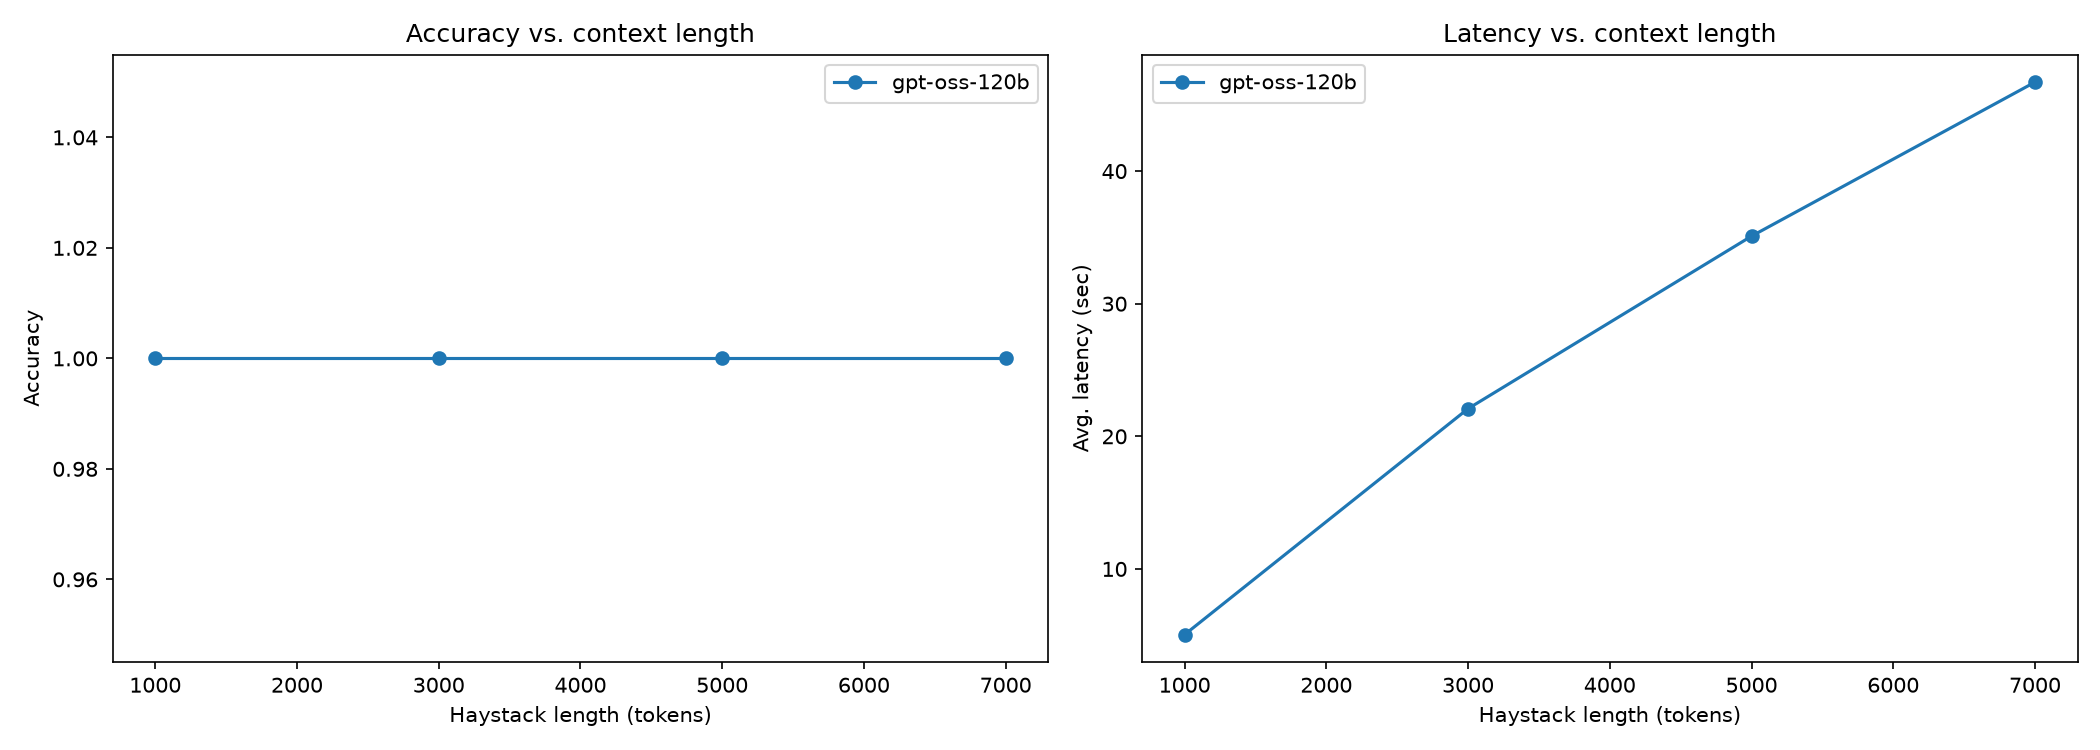
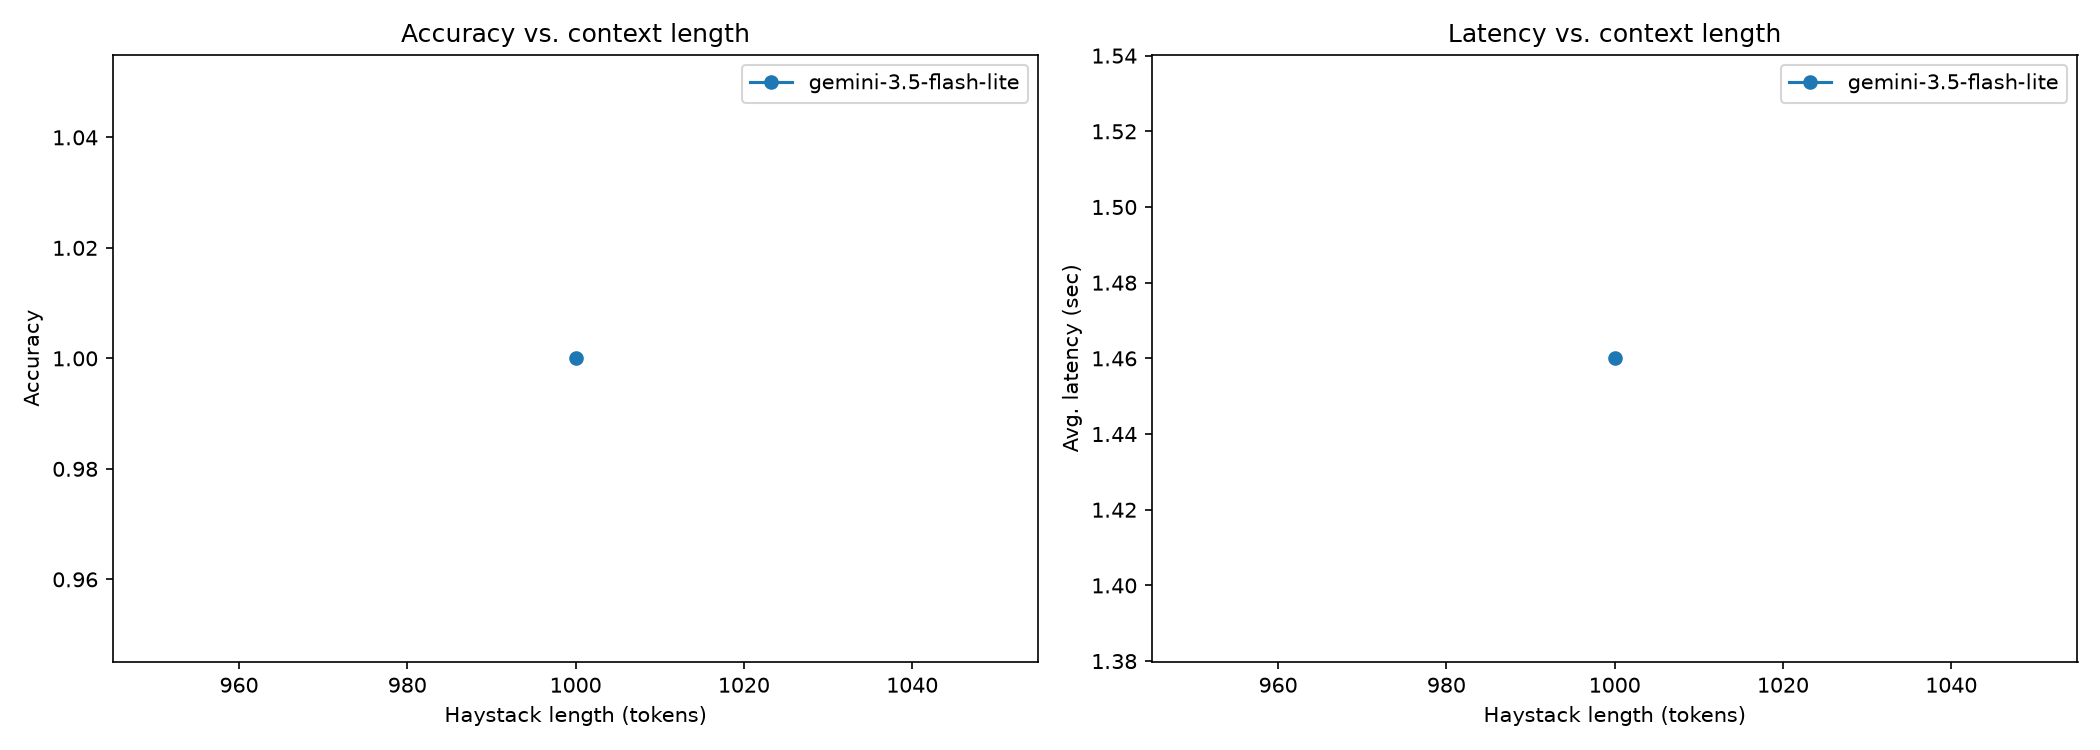
Add Gemini provider and separate API errors from wrong answers" -m "Record status/error_message, retry temporary failures with backoff, pause by prompt size, and skip ERROR rows in heatmaps.

diff --git a/src/run_experiment.py b/src/run_experiment.py
@@ -38,6 +38,7 @@ FIELDNAMES = [
     "latency_sec",
     "prompt_tokens",
     "completion_tokens",
+    "status", "error_message"
 ]
 
 
@@ -56,11 +57,41 @@ def append_result(row: dict):
             writer.writeheader()
         writer.writerow(row)
 
+import time
+import openai
+
+RETRYABLE = (
+    openai.RateLimitError,
+    openai.InternalServerError,
+    openai.APIConnectionError,  # also covers timeouts
+)
+WAITS = [5, 15, 30, 60]  # seconds to wait before retry 1, 2, 3, 4
+
+
+def query_with_retry(model, text, question):
+    for attempt in range(len(WAITS) + 1):
+        try:
+            return query_model(model, text, question)
+        except RETRYABLE as e:
+            if attempt == len(WAITS):
+                raise  # out of retries, let the except block mark it as error
+            wait = WAITS[attempt]
+            print(f"Retry {attempt + 1}/{len(WAITS)} after {type(e).__name__}, waiting {wait}s")
+            time.sleep(wait)
+        
+def pause_after(prompt_tokens):
+    # Keep under 15 requests/min and 250K tokens/min
+    if prompt_tokens >= 80000:
+        time.sleep(45)
+    elif prompt_tokens >= 30000:
+        time.sleep(15)
+    else:
+        time.sleep(5)
 
 def main():
     parser = argparse.ArgumentParser()
     parser.add_argument("--models", nargs="+", required=True, help="Model labels from model_clients.MODEL_REGISTRY")
-    parser.add_argument("--lengths", nargs="+", type=int, default=[1000, 10000, 50000])
+    parser.add_argument("--lengths", nargs="+", type=int, default=[10000, 50000, 100000])
     parser.add_argument("--depths", nargs="+", type=float, default=[0, 25, 50, 75, 100])
     parser.add_argument("--trials", type=int, default=1, help="Repeats per cell, for reliability")
     parser.add_argument("--sources", default="data/sources")
@@ -82,13 +113,19 @@ def main():
         full_text, _ = insert_needle(haystack, needle_info["needle"], depth)
 
         try:
-            answer, latency, usage = query_model(model, full_text, needle_info["question"])
+            answer, latency, usage = query_with_retry(model, full_text, needle_info["question"])
             correct = grade(answer, needle_info["answer"])
+            status = "OK"
+            error_message = ""
+            
         except Exception as e:
-            answer = f"ERROR: {e}"
+            print(f"ERROR: {e}")
+            answer = ""
             latency = 0.0
             usage = {"prompt_tokens": 0, "completion_tokens": 0}
-            correct = False
+            correct = None
+            status = "ERROR"
+            error_message = str(e)
 
         append_result({
             "model": model,
@@ -98,13 +135,15 @@ def main():
             "needle_question": needle_info["question"],
             "expected_answer": needle_info["answer"],
             "model_answer": answer,
+            "status": status,
+            "error_message": error_message,
             "correct": correct,
             "latency_sec": round(latency, 3),
             "prompt_tokens": usage.get("prompt_tokens", 0),
             "completion_tokens": usage.get("completion_tokens", 0),
         })
 
-        time.sleep(0.5)  # be polite to rate limits
+        pause_after(usage.get("prompt_tokens", 0))# be polite to rate limits
 
     print(f"\nDone. Results appended to {RESULTS_PATH}")
 

diff --git a/src/model_clients.py b/src/model_clients.py
@@ -74,14 +74,15 @@ def _query_anthropic(model: str, document: str, question: str) -> tuple[str, flo
     return answer, latency, usage
 
 
-def _query_groq(model: str, document: str, question: str) -> tuple[str, float, dict]:
-    # Groq's API is OpenAI-compatible, so we reuse the openai SDK pointed at
-    # Groq's base URL. Good for testing a free/open model like Llama.
+def _query_gemini(model: str, document: str, question: str) -> tuple[str, float, dict]:
+    # Gemini free tier, via its OpenAI-compatible endpoint.
     from openai import OpenAI
 
     client = OpenAI(
-        api_key=os.environ["GROQ_API_KEY"],
-        base_url="https://api.groq.com/openai/v1",
+        api_key=os.environ["GEMINI_API_KEY"],
+        base_url="https://generativelanguage.googleapis.com/v1beta/openai/",
+        timeout=60,
+        max_retries=0,
     )
     user_prompt = f"<document>\n{document}\n</document>\n\nQuestion: {question}"
 
@@ -93,6 +94,7 @@ def _query_groq(model: str, document: str, question: str) -> tuple[str, float, d
             {"role": "user", "content": user_prompt},
         ],
         temperature=0,
+        reasoning_effort="low",  # "minimal" is too weak, "high" is too slow
     )
     latency = time.time() - start
 
@@ -115,7 +117,7 @@ MODEL_REGISTRY = {
     "gpt-4o-mini": (_query_openai, "gpt-4o-mini"),
     "claude-sonnet": (_query_anthropic, "claude-sonnet-5"),
     "claude-haiku": (_query_anthropic, "claude-haiku-5-5"),
-    "gpt-oss-120b": (_query_groq, "openai/gpt-oss-120b"),
+    "gemini-3.5-flash-lite": (_query_gemini, "gemini-flash-3.5-lite"),
 }
 
 

diff --git a/src/visualize.py b/src/visualize.py
@@ -25,8 +25,17 @@ OUT_DIR = "results"
 def load_results() -> pd.DataFrame:
     if not os.path.exists(RESULTS_PATH):
         raise FileNotFoundError(f"{RESULTS_PATH} not found -- run run_experiment.py first.")
+        
     df = pd.read_csv(RESULTS_PATH)
-    df["correct"] = df["correct"].astype(bool)
+    # Old files may have no status column; treat those rows as valid.
+    if "status" not in df.columns:
+        df["status"] = "OK"
+
+    # Keep only requests that actually worked, BEFORE touching "correct".
+    df = df[df["status"] == "OK"].copy()
+
+    # Safe conversion: only the text "True" counts as correct.
+    df["correct"] = df["correct"].astype(str).str.lower() == "true"
     return df
 
 

diff --git a/test_gemini.py b/test_gemini.py
@@ -1,0 +1,22 @@
+import os, time
+from dotenv import load_dotenv
+from openai import OpenAI
+
+load_dotenv()
+client = OpenAI(
+    api_key=os.getenv("GEMINI_API_KEY"),
+    base_url="https://generativelanguage.googleapis.com/v1beta/openai/",
+    timeout=30,
+    max_retries=0,
+)
+start = time.time()
+try:
+    r = client.chat.completions.create(
+        model="gemini-3.5-flash-lite",
+        messages=[{"role": "user", "content": "Say hello in one word."}],
+        reasoning_effort="low",
+    )
+    print("OK:", r.choices[0].message.content)
+except Exception as e:
+    print("ERROR:", type(e).__name__, e)
+print("seconds:", round(time.time() - start, 1))
